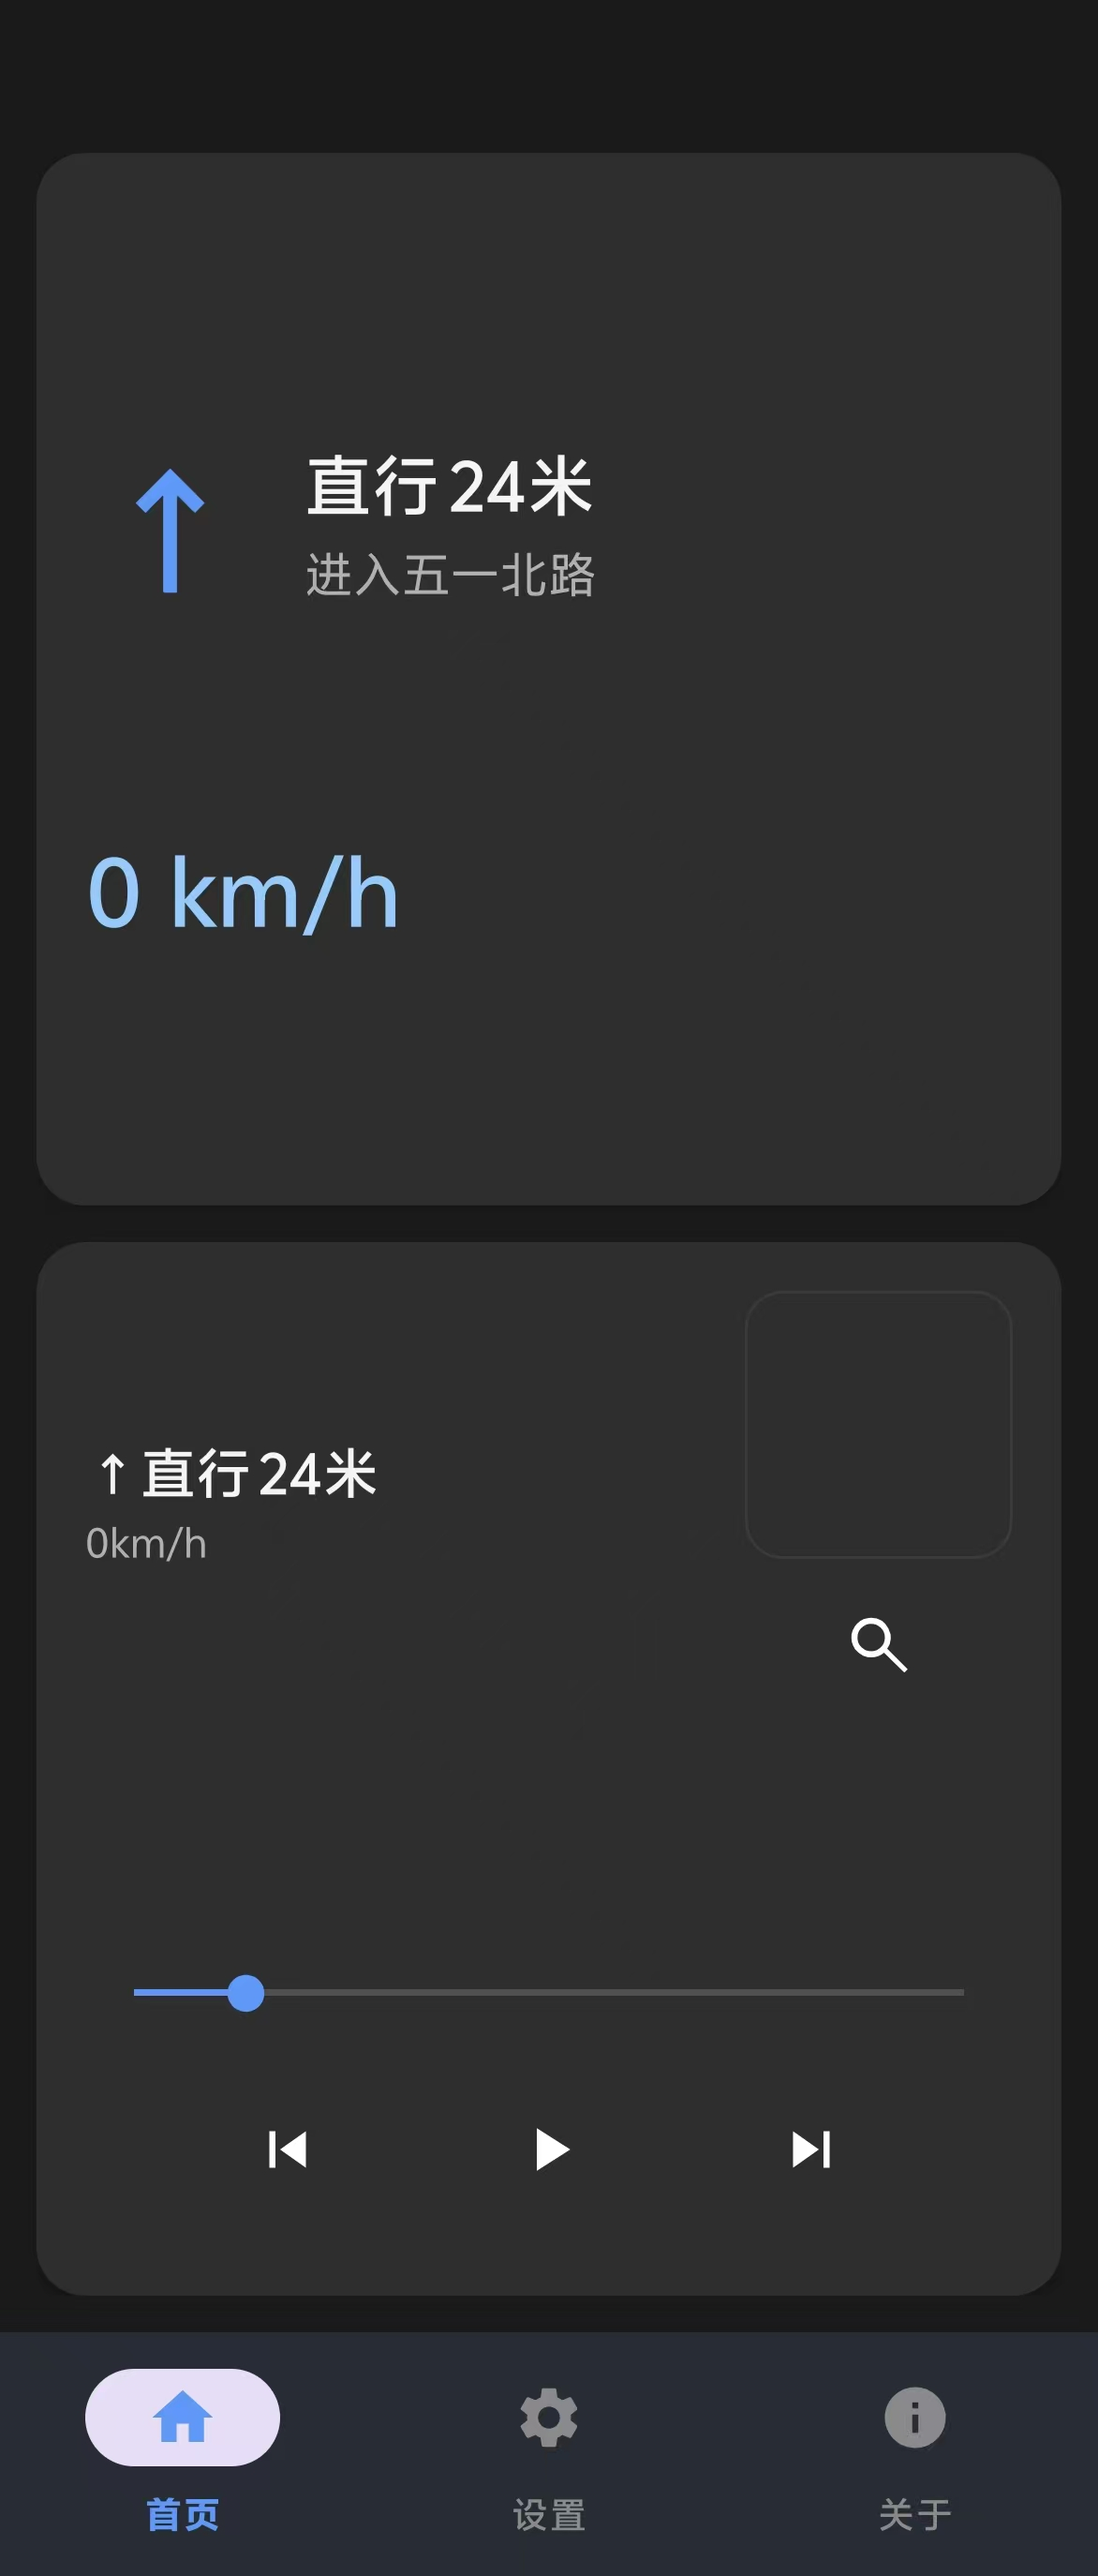
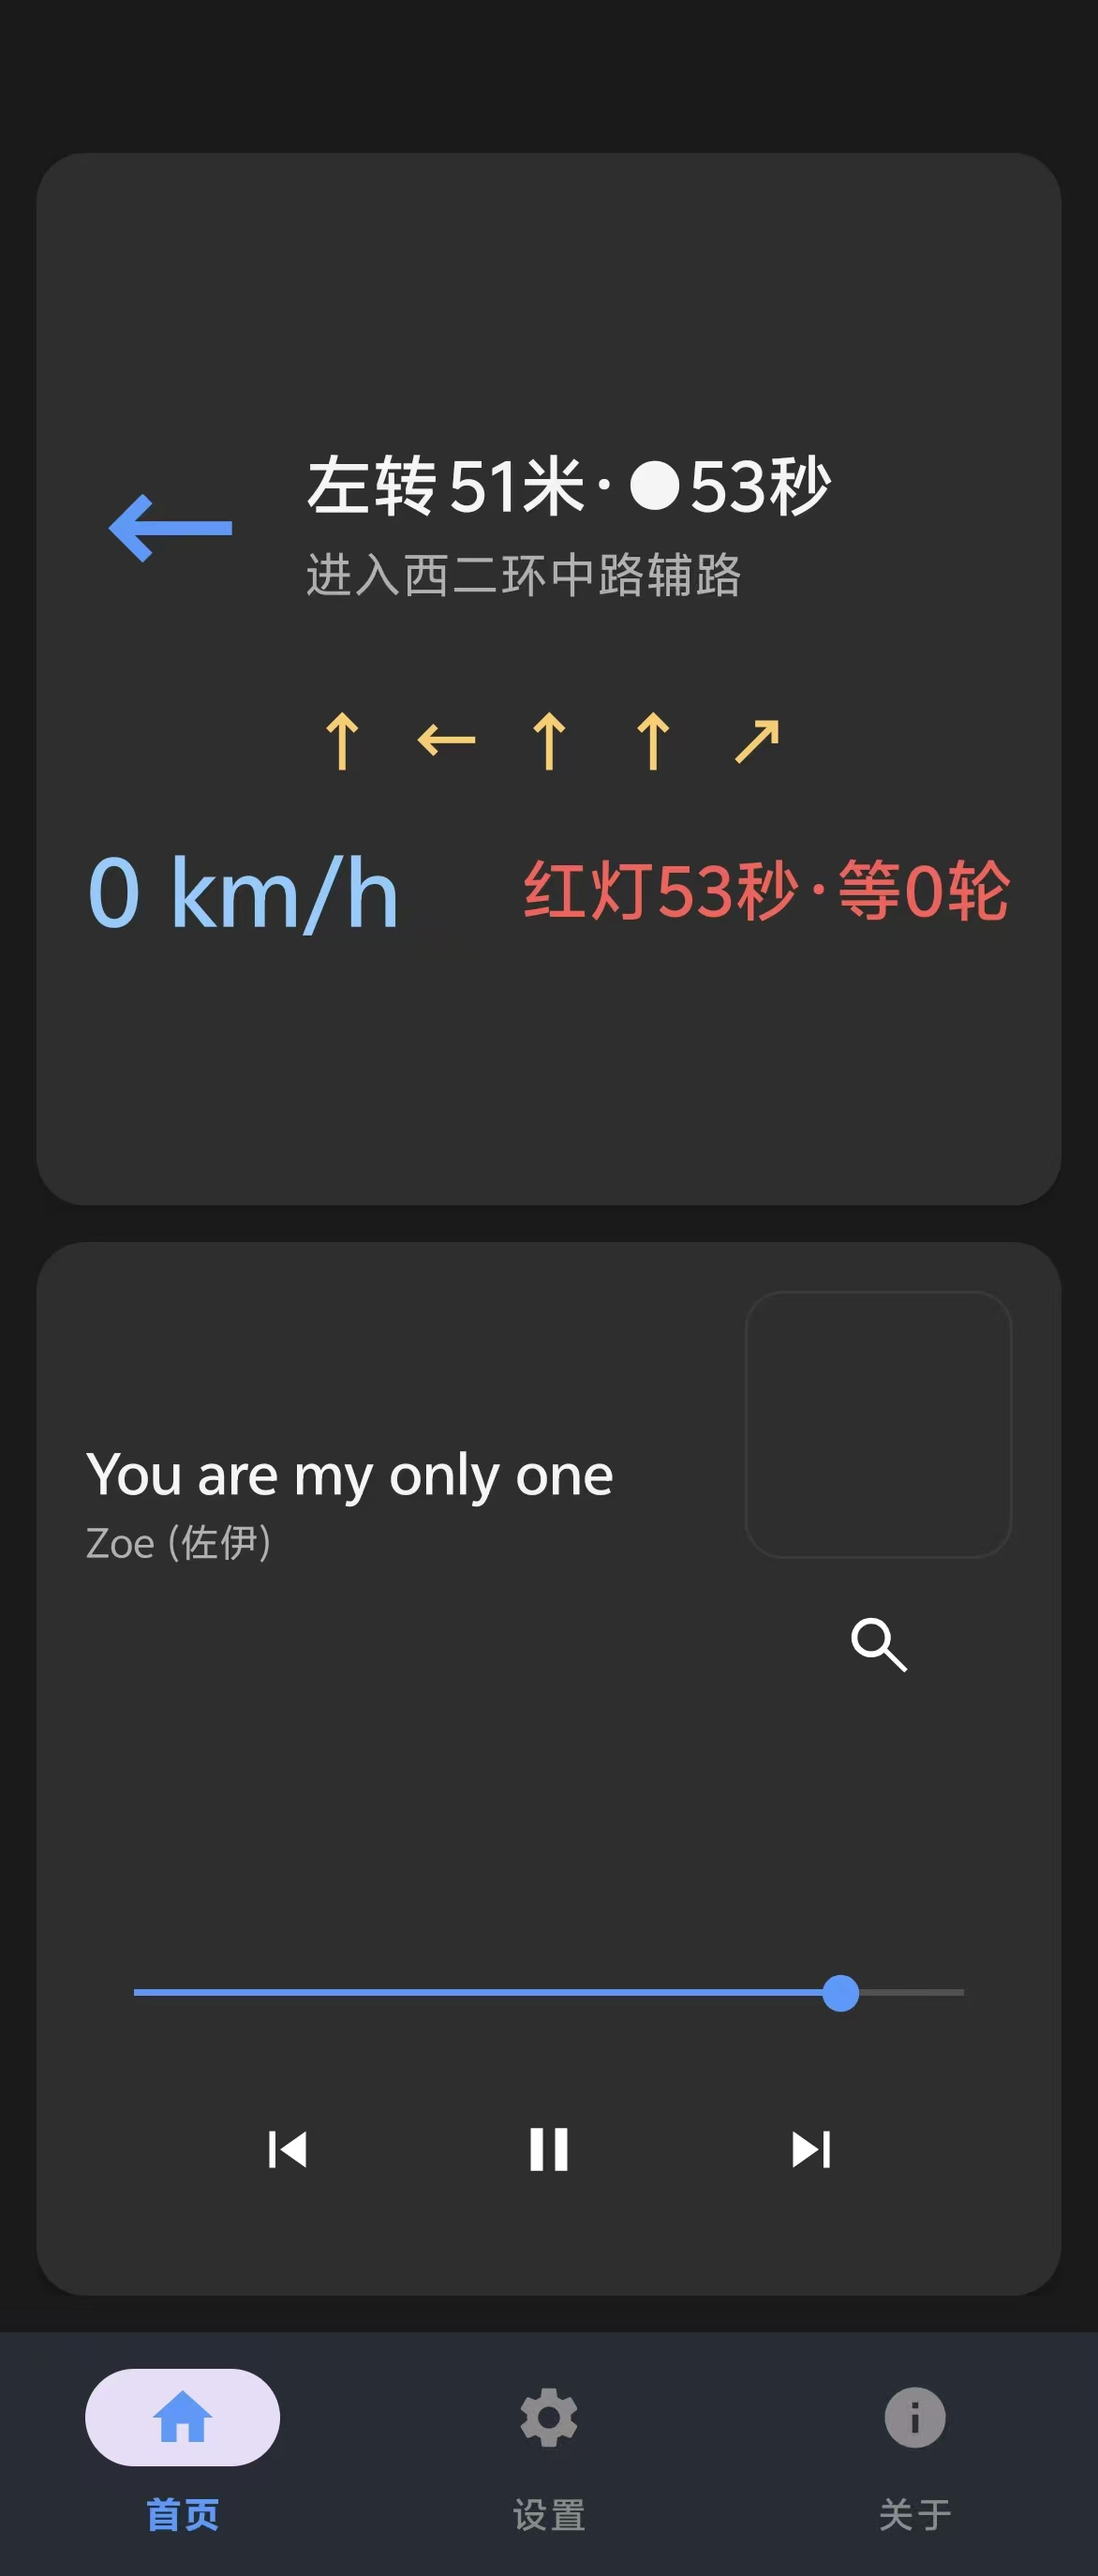
feat：自动扫描音乐，fix：1、车道箭头用可显示字符，2、line2 车道显示时机跟随导航显示或消失，3、line1 红绿灯精简

diff --git a/app/src/main/java/com/xtrail/navdash/DashMediaService.java b/app/src/main/java/com/xtrail/navdash/DashMediaService.java
@@ -260,6 +260,13 @@ public final class DashMediaService extends Service {
         else try { c.startForegroundService(i); } catch (Exception ignored) {}
     }
 
+    /** 触发开机自动扫描（如授予音频权限后重新扫描）。只准备不自动播放。 */
+    public static void autoScan(Context c) {
+        Intent i = new Intent(c, DashMediaService.class).setAction(ACTION_MUSIC).putExtra("ctrl", "autoscan");
+        if (instance != null) instance.onControl(i);
+        else try { c.startForegroundService(i); } catch (Exception ignored) {}
+    }
+
     /** 字段探测：把 metadata 各字段设为不同标记值，用于在仪表盘上确认字段映射。 */
     public static void probe(Context c) {
         Intent i = new Intent(c, DashMediaService.class).setAction(ACTION_PROBE);
@@ -325,6 +332,7 @@ public final class DashMediaService extends Service {
         createChannel();
         buildSession();
         buildPlayer();
+        autoScan();                 // 开机自动扫描本地音乐：让仪表盘立即显示歌曲信息
         ensureReceiverRegistered();
     }
 
@@ -587,7 +595,9 @@ public final class DashMediaService extends Service {
     // ================= 播放控制 =================
     private void onControl(Intent i) {
         String ctrl = i.getStringExtra("ctrl");
-        if ("scan".equals(ctrl)) {
+        if ("autoscan".equals(ctrl)) {
+            autoScan();
+        } else if ("scan".equals(ctrl)) {
             scanPlaylist();
             if (!playlist.isEmpty()) { player.setMediaItems(playlist, 0, 0); player.prepare(); player.play(); }
         } else if ("play".equals(ctrl)) {
@@ -634,6 +644,28 @@ public final class DashMediaService extends Service {
     }
 
     /**
+     * 开机自动扫描：仅当播放列表未设置时执行（避免覆盖已有播放/手动扫描）。
+     * 扫描在后台线程，完成后回主线程设置播放列表并 prepare（不自动播放），让仪表盘立即显示当前歌曲。
+     */
+    private void autoScan() {
+        if (player != null && player.getMediaItemCount() > 0) return;
+        new Thread(() -> {
+            scanPlaylist();
+            new Handler(Looper.getMainLooper()).post(() -> {
+                // 主线程再判断一次：若期间用户已手动扫描/播放（player 已有条目），则不覆盖
+                if (player != null && player.getMediaItemCount() == 0 && !playlist.isEmpty()) {
+                    player.setMediaItems(playlist, 0, 0);
+                    player.prepare();
+                    publish();
+                    Log.i(TAG_AMAP, "[SCAN] 开机自动扫描完成，共 " + playlist.size() + " 首，已准备（未自动播放）");
+                } else {
+                    Log.i(TAG_AMAP, "[SCAN] 开机自动扫描跳过（播放列表已设置或为空，可能未授予音频权限）");
+                }
+            });
+        }, "auto-scan").start();
+    }
+
+    /**
      * 组装仪表盘第二行（专辑区）。三选一（DisplayPrefs.getActiveMode）：
      * 道路名称 / 车道内容 / 当前车速，只输出其中一项；数据缺失时回退 "导航"。
      */
@@ -642,11 +674,9 @@ public final class DashMediaService extends Service {
         if (mode == DisplayPrefs.SHOW_SPEED) {
             return lastSpeed >= 0 ? (lastSpeed + "km/h") : "导航";
         }
-        // 合并模式（默认）：车道信息新鲜(8s) → 显示车道内容；
-        // 否则回落道路名称。8s 未再收到 13012 车道广播即视为已过路口，直接回落。
-        boolean laneFresh = !lastLane.isEmpty()
-                && lastLaneMs > 0 && System.currentTimeMillis() - lastLaneMs <= CarProtocolParser.LANE_FRESH_MS;
-        if (laneFresh) return lastLane;
+        // 合并模式：车道信息显示到被清空为止（过路口/退出导航时 13012 发空车道、或 STALE 15s 清空），
+        // 与手机 HUD 车道时机一致。不再用 8s 新鲜度——8s 会在还没过路口时就过早回落道路名称。
+        if (!lastLane.isEmpty()) return lastLane;
         String road = CarProtocolParser.roadLine2(lastNextRoad, lastCurRoad);
         return road.isEmpty() ? "导航" : road;
     }

diff --git a/app/src/main/java/com/xtrail/navdash/CarProtocolParser.java b/app/src/main/java/com/xtrail/navdash/CarProtocolParser.java
@@ -176,12 +176,13 @@ public final class CarProtocolParser {
         // line1 = baseLine1 + 红绿灯读秒。读秒每秒变化 → 带动仪表盘重绘 line2（修复"line2 不刷新"）
         r.line1 = r.baseLine1;
         if (r.redSec > 0 && !r.baseLine1.isEmpty()) {
-            // 红绿灯相位标志：默认圆圈符号 ●=红灯 ◎=绿灯；开关开启时用文字"红灯/绿灯"
+            // 红绿灯相位标志：默认圆圈符号 ●=红灯 ◎=绿灯；开关开启时用文字"红/绿"。
+            // 精简：灯字删掉、秒字删掉（避免字符串过长导致仪表盘显示不全）。
             String phaseSym;
-            if ("绿".equals(r.lightPhase)) phaseSym = useTextLight ? "绿灯" : "◎";
-            else if ("红".equals(r.lightPhase)) phaseSym = useTextLight ? "红灯" : "●";
+            if ("绿".equals(r.lightPhase)) phaseSym = useTextLight ? "绿" : "◎";
+            else if ("红".equals(r.lightPhase)) phaseSym = useTextLight ? "红" : "●";
             else phaseSym = r.lightPhase;
-            r.line1 = r.baseLine1 + "·" + phaseSym + r.redSec + "秒";
+            r.line1 = r.baseLine1 + "·" + phaseSym + r.redSec;
         }
 
         // line2 = 车道信息（新鲜）时只显示车道；否则进入下一路；无下一路则沿当前路
@@ -299,18 +300,19 @@ public final class CarProtocolParser {
     }
 
     /**
-     * 车道图标码 → 箭头字形。drive_way_lane_Back_icon 为 String，实测 5 张截图映射：
-     * 1→↰、3→↗、15→↑、16→↑、18→↱、31→←、43→↰、0→↑。
-     * "15" 出现 4 次中 3 次为 ↑（仅 1 次为左转机动最右车道的 ↱），故按 ↑ 处理。
+     * 车道图标码 → 箭头字形。只输出车机能显示的字符（与 dirToArrow 同规则：
+     * ← ↑ → ↓ ↖ ↗ ↘ ↙）。实测 ↰/↱ 等 P3 字符车机不显示，故一律映射到 ←/→/↑。
+     * drive_way_lane_Back_icon 为 String，实测映射：
+     * 1→左转/掉头(←)、3→右前方(↗)、15→直行(↑)、16→直行(↑)、18→右转(→)、31→左转(←)、43→左转/掉头(←)、0→直行(↑)。
      */
     private static String laneTypeToArrow(String icon) {
         switch (icon) {
-            case "1": return "↰";   // 左转/掉头（实测 2 次）
-            case "3": return "↗";   // 右前方（实测）
-            case "18": return "↱";  // 右转（实测）
-            case "31": return "←";  // 左转（实测）
-            case "43": return "↰";  // 左转/掉头（实测）
-            case "15":              // 直行（3/4；左转机动最右道为 ↱，可接受）
+            case "1": return "←";   // 左转/掉头
+            case "3": return "↗";   // 右前方
+            case "18": return "→";  // 右转
+            case "31": return "←";  // 左转
+            case "43": return "↓";  // 左转/掉头
+            case "15":              // 直行（3/4；左转机动最右道为 →，可接受）
             case "16":              // 直行（实测）
             case "0":               // 直行（当前车道加粗时仍为 ↑）
             default: return "↑";

diff --git a/app/src/main/java/com/xtrail/navdash/MainActivity.java b/app/src/main/java/com/xtrail/navdash/MainActivity.java
@@ -5,6 +5,7 @@ import android.content.BroadcastReceiver;
 import android.content.Context;
 import android.content.Intent;
 import android.content.IntentFilter;
+import android.content.pm.PackageManager;
 import android.os.Build;
 import android.os.Bundle;
 import android.os.Handler;
@@ -121,6 +122,24 @@ public final class MainActivity extends AppCompatActivity {
                 requestPermissions(new String[]{Manifest.permission.WRITE_EXTERNAL_STORAGE}, 100);
             }
             requestPermissions(new String[]{Manifest.permission.READ_EXTERNAL_STORAGE}, 100);
+        }
+    }
+
+    @Override
+    public void onRequestPermissionsResult(int requestCode, @NonNull String[] permissions,
+                                           @NonNull int[] grantResults) {
+        super.onRequestPermissionsResult(requestCode, permissions, grantResults);
+        // 授予音频读取权限后，重新触发开机自动扫描：
+        // 首次启动时服务已尝试扫描，但可能因权限未授予而得到空列表，这里补扫一次。
+        if (requestCode != 100) return;
+        for (int i = 0; i < permissions.length; i++) {
+            if (grantResults[i] != PackageManager.PERMISSION_GRANTED) continue;
+            String p = permissions[i];
+            if (Manifest.permission.READ_MEDIA_AUDIO.equals(p)
+                    || Manifest.permission.READ_EXTERNAL_STORAGE.equals(p)) {
+                DashMediaService.autoScan(this);
+                break;
+            }
         }
     }
 }

diff --git a/README.md b/README.md
@@ -11,12 +11,12 @@
 
 ## 界面截图
 
-| 首页（导航 HUD + 播放器） | 设置（第二行显示 + 广播日志） |
-| --- | --- |
-| <img src="screenshot/screenshot_1.jpg" width="260"> | <img src="screenshot/screenshot_2.jpg" width="260"> |
+| 车辆仪表盘                                               | 首页（导航 HUD + 播放器）                                    | 设置（第二行显示 + 广播日志）                                    |
+| --------------------------------------------------- | --------------------------------------------------- | --------------------------------------------------- |
+| <img src="screenshot/screenshot_0.jpg" width="260"> | <img src="screenshot/screenshot_1.jpg" width="260"> | <img src="screenshot/screenshot_2.jpg" width="260"> |
 
-| 关于（版本 / 开源 / 免责声明） | 通知栏（本 App + 高德车机版） |
-| --- | --- |
+| 关于（版本 / 开源 / 免责声明）                                  | 通知栏（本 App + 高德车机版）                                  |
+| --------------------------------------------------- | --------------------------------------------------- |
 | <img src="screenshot/screenshot_3.jpg" width="260"> | <img src="screenshot/screenshot_4.jpg" width="260"> |
 
 ---
@@ -86,7 +86,6 @@ cd car-dash-x
 > 签名配置（`storePassword` / `keyAlias` / `keyPassword`）。请**妥善保管 `jks/` 目录**，
 > 切勿提交到仓库或泄露——一旦丢失将无法升级已发布的 App。
 > 若 `keystore.properties` 缺失，`assembleRelease` 会自动跳过签名（仅生成未签名包）。
-
 
 ---
 
